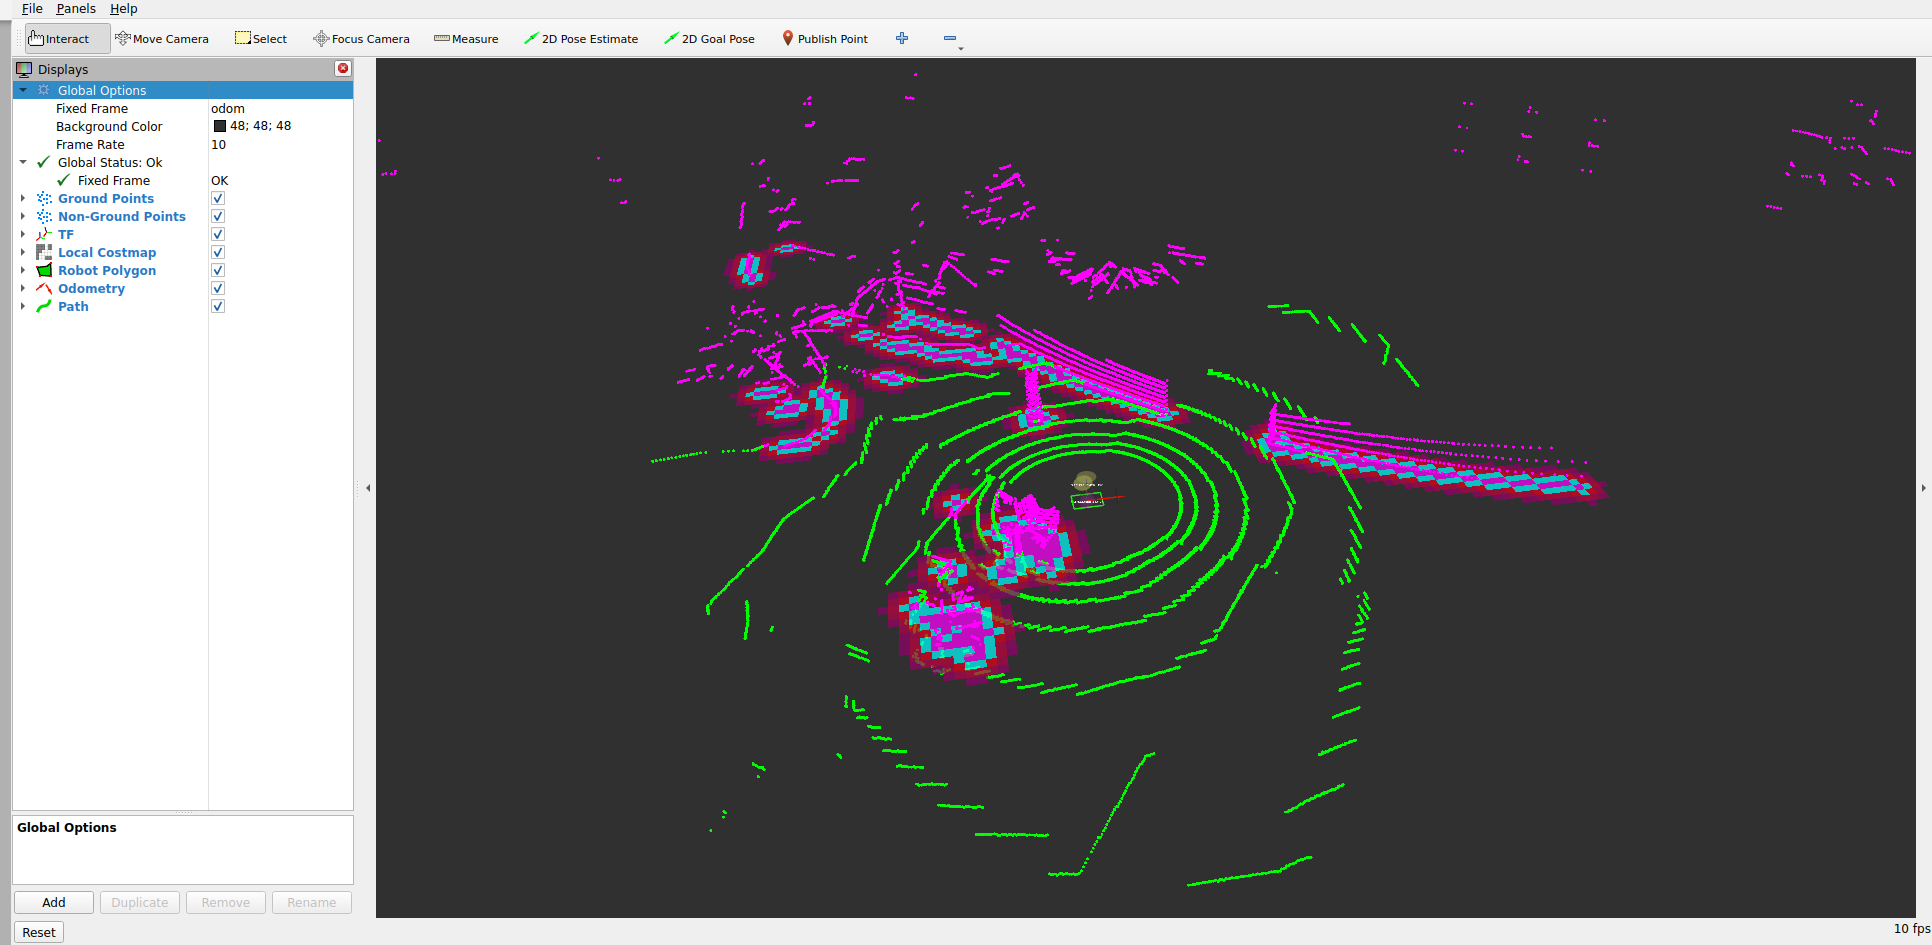
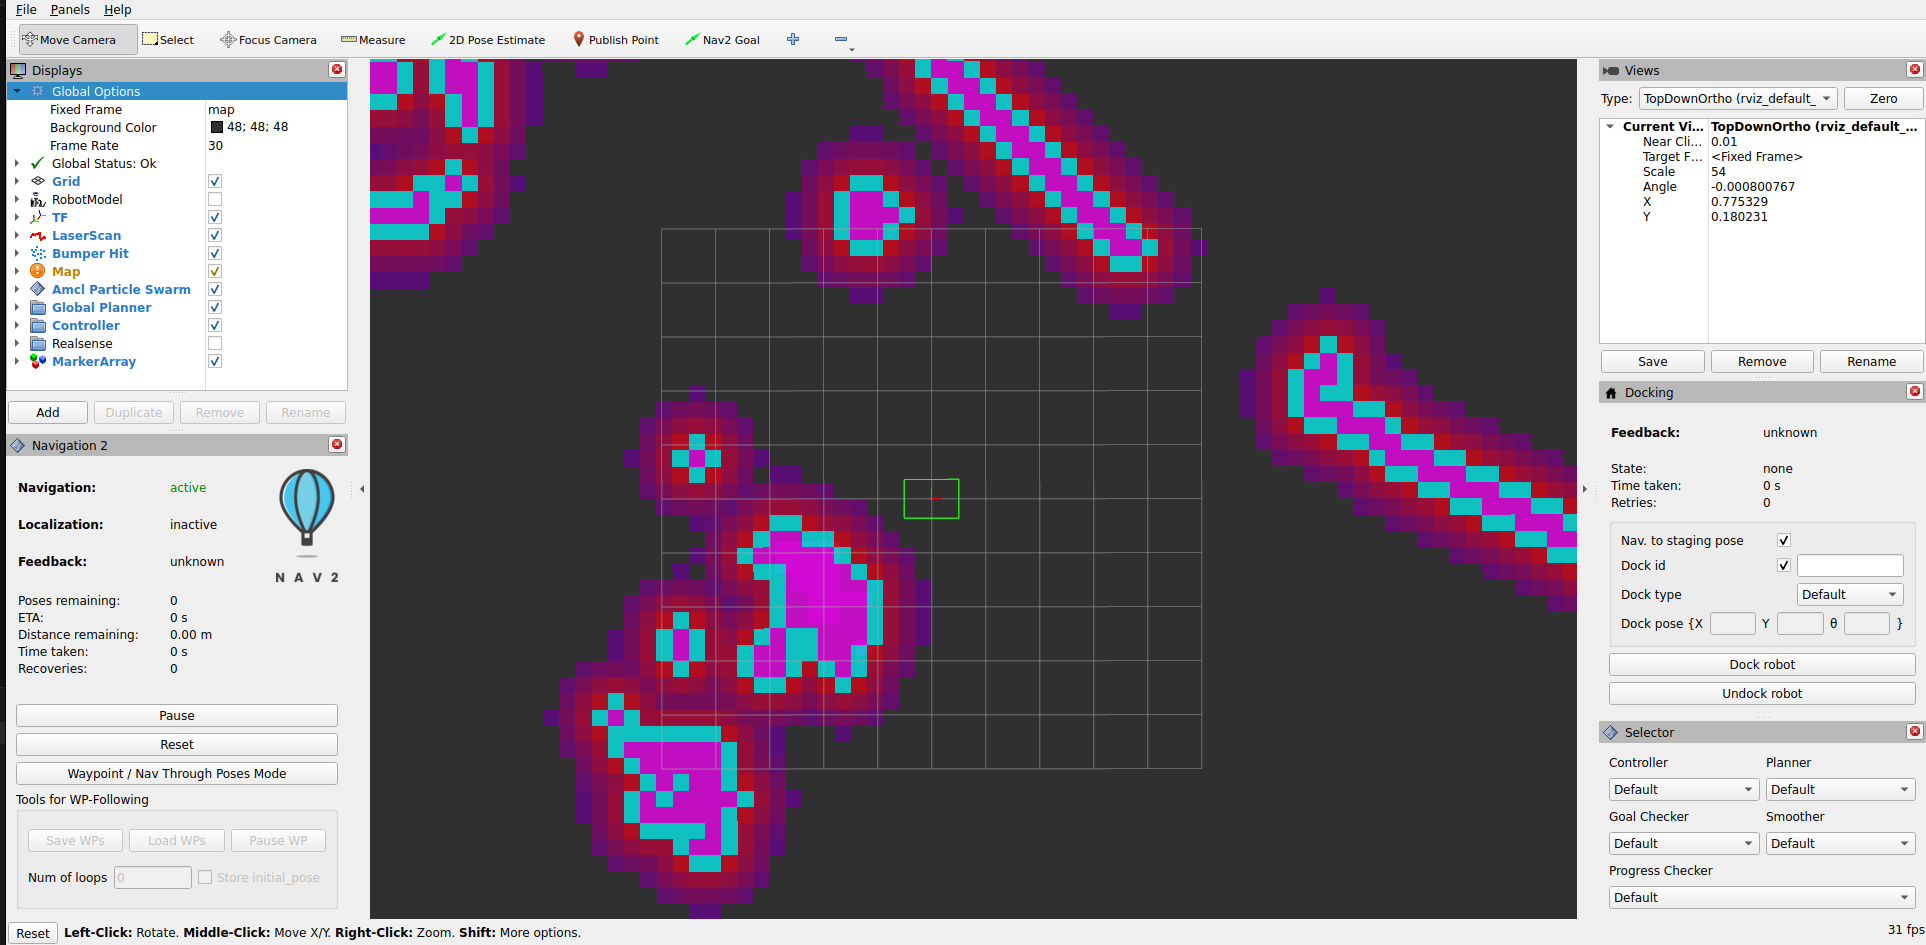
Update tutorial for ground consistency

diff --git a/tutorials/docs/navigation2_with_ground_consistency_layer.rst b/tutorials/docs/navigation2_with_ground_consistency_layer.rst
@@ -25,6 +25,8 @@ navigation in non-planar environments, creating smarter and safer costmaps.
 .. image:: images/Navigation2_with_Ground_Consistency/ground_consistency_layer.gif
    :alt: Ground Consistency Layer Demo
 
+*Ground Consistency Layer in action: Green points are ground, magenta points are obstacles overlaid on the costmap*
+
 Requirements
 ============
 
@@ -80,15 +82,15 @@ accurate costmaps that allow the robot to navigate safely and efficiently in com
 - **Underground/tunnel navigation**: Enables navigation in challenging environments where traditional costmaps fail
 
 
-Raw Input Point Cloud:
-
 .. image:: images/Navigation2_with_Ground_Consistency/raw_points.png
    :alt: Raw Input Point Cloud
 
-Segmented Ground (Green) and Obstacle Points (Magenta) based on `GSeg3D <https://github.com/dfki-ric/ground_segmentation_ros2>`_:
+*Raw Input Point Cloud*
 
 .. image:: images/Navigation2_with_Ground_Consistency/segmented_points.png
    :alt: Segmented Ground and Obstacle Points
+
+*Segmented Ground (Green) and Obstacle Points (Magenta) based on* `GSeg3D <https://github.com/dfki-ric/ground_segmentation_ros2>`_
 
 While ground segmentation is traditionally used to filter out ground points from costmaps, we can instead use ground points in our decision-making process to implement an
 evidence accumulation and height-based classification system. This approach creates more accurate and stable costmaps in outdoor challenging environments.
@@ -374,10 +376,10 @@ Practical Example
 To help you get started, we have prepared a practical example demonstrating the Ground Consistency layer in action. It is highly recommended to follow along with the example to see how the layer
 works in a simulated navigation scenario.
 
-Install Additional Tools
-------------------------
+Install Required Tools
+----------------------
 
-All dependency repositories needed for the tutorial are managed using ``vcstool``. If you don't have it installed, you can install it using apt:
+This tutorial uses ``vcstool`` to manage repository dependencies. Install it using apt:
 
 .. code-block:: bash
 
@@ -387,7 +389,9 @@ All dependency repositories needed for the tutorial are managed using ``vcstool`
 Setup Tutorial Package and Dependencies
 ---------------------------------------
 
-Create and prepare a workspace::
+Create and prepare a workspace:
+
+.. code-block:: bash
 
    # Create workspace
    mkdir -p ~/nav2_ws/src
@@ -395,17 +399,19 @@ Create and prepare a workspace::
 
    # Clone navigation2_tutorials repository
    git clone -b jazzy https://github.com/ros-navigation/navigation2_tutorials.git
-   cd navigation2_tutorials/nav2_ground_consistency_demo
 
-   # Run setup script to import dependencies from .repos file and install ROS package dependencies
-   bash install_dependencies.bash ~/nav2_ws
+Now, install all dependencies:
 
+.. code-block:: bash
 
-The ``install_dependencies.bash`` script will:
+   cd ~/nav2_ws
 
-- Import all demo dependencies (KISS-ICP, ground segmentation, etc.) using vcstool
-- Install all ROS package dependencies using rosdep
-- Prepare your workspace for building
+   # Import all demo dependencies (KISS-ICP, ground segmentation, etc.) from the .repos file
+   vcs import src < src/navigation2_tutorials/nav2_ground_consistency_demo/dependencies.repos
+
+   # Install ROS package dependencies
+   source /opt/ros/jazzy/setup.bash
+   rosdep install --from-paths src --ignore-src --rosdistro jazzy -y
 
 1. Setup Simulation Environment
 -------------------------------
@@ -438,16 +444,27 @@ You should see Gazebo launch with Husky in Baylands world.
 2. Observe Ground Consistency Layer in Action
 ---------------------------------------------
 
-An RViz2 window will also open showing the costmap layers and the sensor data. You should see the ground points (green) and obstacle points (magenta)
-from the segmentation algorithm, as well as the costmap with the ground consistency layer applied. Use the ``2D Goal Pose`` tool in RViz2 to set
-navigation goals for the robot and observe how it navigates while respecting the terrain.
+An RViz2 window will also open showing the costmap layers.
+
+**Visualizing Ground Segmentation Points (Optional)**
+
+Add the following PointCloud2 topics to your RViz2 display to visualize ground and obstacle classification:
+
+- ``/ground_segmentation/ground_points``
+- ``/ground_segmentation/obstacle_points``
+
+**Important**: Set RViz2 target frame rate to **~8 Hz** to match the LiDAR sensor publish rate from Gazebo. If set higher, point clouds will display intermittently.
+
+You should now see the ground points and obstacle points from the segmentation algorithm overlaid on the costmap with the ground consistency layer applied.
 
 .. image:: images/Navigation2_with_Ground_Consistency/rviz_window.png
    :width: 700px
    :align: center
    :alt: RViz2 window showing costmap layers
 
-Try setting goals in different areas of the map, such as on slopes, under the tree canopies, and through the uneven terrain. Observe how the ground consistency
+**Testing Navigation**
+
+Use the ``Nav2 Goal`` tool in RViz2 to set navigation goals for the robot. Try setting goals in different areas of the map, such as on slopes, under the tree canopies, and through the uneven terrain. Observe how the ground consistency
 layer allows the robot to navigate through these challenging terrains by correctly classifying obstacles and traversable ground.
 
 .. image:: images/Navigation2_with_Ground_Consistency/robot_in_action.png